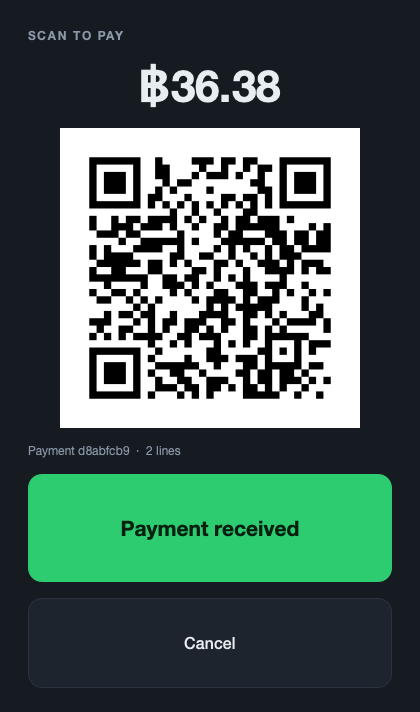
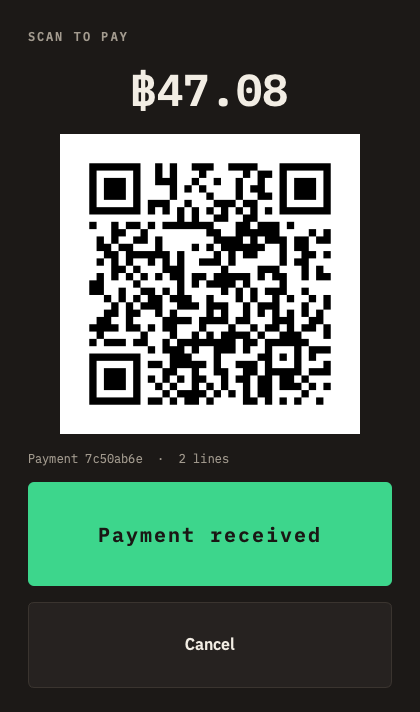
site + docs: local Plex, shared tokens, fresh screenshots of till, receipt, phone and dashboard
- site/public: fonts served locally (no Google Fonts), DESIGN.md tokens, the
  receipt stays paper in the dark theme, iPhone and dashboard figures added;
  no horizontal overflow at 390/768/1280 in either theme; deployed
- ios/README.md: --demo-seed, --demo-scan, --tab; the abbreviated PostScript
  names and FontsTests
- README layout: assets/fonts, docs/DESIGN.md, 175 tests; action item 34

diff --git a/site/public/style.css b/site/public/style.css
@@ -1,35 +1,47 @@
-/* AI Cashier landing page.
-   Direction: receipt paper and the till's own orange. Light is warm paper;
-   dark is the till screen's palette (scanner/ui/theme.py). */
+/* AI Cashier landing page: the paper half of docs/DESIGN.md.
+   Fonts are served from this folder (IBM Plex Sans Thai + Plex Mono, OFL). */
+
+@font-face { font-family: "IBM Plex Sans Thai"; font-weight: 400; font-style: normal; font-display: swap; src: url(/fonts/IBMPlexSansThai-Regular.woff2) format("woff2"); }
+@font-face { font-family: "IBM Plex Sans Thai"; font-weight: 500; font-style: normal; font-display: swap; src: url(/fonts/IBMPlexSansThai-Medium.woff2) format("woff2"); }
+@font-face { font-family: "IBM Plex Sans Thai"; font-weight: 600; font-style: normal; font-display: swap; src: url(/fonts/IBMPlexSansThai-SemiBold.woff2) format("woff2"); }
+@font-face { font-family: "IBM Plex Sans Thai"; font-weight: 700; font-style: normal; font-display: swap; src: url(/fonts/IBMPlexSansThai-Bold.woff2) format("woff2"); }
+@font-face { font-family: "IBM Plex Mono"; font-weight: 400; font-style: normal; font-display: swap; src: url(/fonts/IBMPlexMono-Regular.woff2) format("woff2"); }
+@font-face { font-family: "IBM Plex Mono"; font-weight: 500; font-style: normal; font-display: swap; src: url(/fonts/IBMPlexMono-Medium.woff2) format("woff2"); }
+@font-face { font-family: "IBM Plex Mono"; font-weight: 600; font-style: normal; font-display: swap; src: url(/fonts/IBMPlexMono-SemiBold.woff2) format("woff2"); }
 
 :root {
-  --paper: #F7F4EE;
-  --paper-2: #FFFFFF;
-  --ink: #14171C;
-  --muted: #5E6672;
-  --rule: #DAD5CB;
+  color-scheme: light;
+  --paper: #F3F1EC;
+  --paper-2: #FBFAF7;
+  --ink: #1A1714;
+  --muted: #6B655C;
+  --rule: #D6D2C9;
   --accent: #FF7A18;
   --accent-ink: #B4500A;
   --ok: #1E8E4E;
-  --receipt: #FFFDF8;
-  --shadow: 0 18px 40px -24px rgba(20, 23, 28, .35);
+  /* the receipt is paper in either theme */
+  --receipt: #FBFAF7;
+  --receipt-ink: #1A1714;
+  --shadow: 0 18px 40px -24px rgba(26, 23, 20, .4);
 
-  --sans: "IBM Plex Sans", system-ui, -apple-system, "Segoe UI", sans-serif;
-  --mono: "IBM Plex Mono", ui-monospace, SFMono-Regular, Menlo, monospace;
+  --sans: "IBM Plex Sans Thai", "Noto Sans Thai", system-ui, -apple-system, "Segoe UI", sans-serif;
+  --mono: "IBM Plex Mono", "IBM Plex Sans Thai", ui-monospace, SFMono-Regular, Menlo, monospace;
   --measure: 62ch;
   --w: 1120px;
   --s-1: .5rem; --s-2: 1rem; --s-3: 1.5rem; --s-4: 2.5rem; --s-5: 4rem; --s-6: clamp(4rem, 3rem + 5vw, 7rem);
 }
 @media (prefers-color-scheme: dark) {
   :root:not([data-theme="light"]) {
-    --paper: #0E1116; --paper-2: #161B22; --ink: #E8EDF2; --muted: #8A98A8; --rule: #2A333F;
-    --accent: #FF7A18; --accent-ink: #FFA45C; --ok: #2ECC71; --receipt: #1D242D;
+    color-scheme: dark;
+    --paper: #131110; --paper-2: #1C1917; --ink: #F2EDE4; --muted: #A39B8F; --rule: #3A342F;
+    --accent-ink: #FFA45C; --ok: #3DD68C;
     --shadow: 0 18px 40px -24px rgba(0, 0, 0, .8);
   }
 }
 :root[data-theme="dark"] {
-  --paper: #0E1116; --paper-2: #161B22; --ink: #E8EDF2; --muted: #8A98A8; --rule: #2A333F;
-  --accent: #FF7A18; --accent-ink: #FFA45C; --ok: #2ECC71; --receipt: #1D242D;
+  color-scheme: dark;
+  --paper: #131110; --paper-2: #1C1917; --ink: #F2EDE4; --muted: #A39B8F; --rule: #3A342F;
+  --accent-ink: #FFA45C; --ok: #3DD68C;
   --shadow: 0 18px 40px -24px rgba(0, 0, 0, .8);
 }
 
@@ -44,7 +56,7 @@ body {
 a { color: var(--accent-ink); text-underline-offset: 3px; }
 a:focus-visible, button:focus-visible, summary:focus-visible { outline: 3px solid var(--accent); outline-offset: 3px; }
 img { max-width: 100%; height: auto; display: block; }
-h1, h2, h3 { font-weight: 700; letter-spacing: -.015em; line-height: 1.1; text-wrap: balance; margin: 0; }
+h1, h2, h3 { font-weight: 600; letter-spacing: -.02em; line-height: 1.1; text-wrap: balance; margin: 0; }
 h1 { font-size: clamp(2.4rem, 1.4rem + 4vw, 4.4rem); }
 h2 { font-size: clamp(1.7rem, 1.2rem + 1.6vw, 2.4rem); margin-bottom: var(--s-3); }
 h3 { font-size: 1.25rem; margin-bottom: var(--s-1); }
@@ -55,6 +67,7 @@ code { font-family: var(--mono); font-size: .92em; background: color-mix(in srgb
 .skip:focus { left: 8px; }
 
 .eyebrow { font-family: var(--mono); font-size: .78rem; letter-spacing: .12em; text-transform: uppercase; color: var(--muted); margin-bottom: var(--s-2); }
+.eyebrow--accent { color: var(--accent-ink); }
 .lede { font-size: 1.2rem; color: var(--ink); }
 .lede--tight { margin-bottom: var(--s-3); }
 .fine { font-size: .9rem; color: var(--muted); }
@@ -79,13 +92,13 @@ section { padding-top: var(--s-6); }
 
 .btn {
   display: inline-flex; flex-direction: column; justify-content: center; gap: 2px;
-  min-height: 64px; padding: 12px 22px; border-radius: 10px; text-decoration: none;
+  min-height: 64px; padding: 12px 22px; border-radius: 6px; text-decoration: none;
   font-weight: 600; line-height: 1.2; border: 2px solid transparent;
   transition: transform .12s ease, box-shadow .12s ease;
 }
 .btn:hover { transform: translateY(-1px); }
 .btn:active { transform: translateY(0); }
-.btn--primary { background: var(--accent); color: #14171C; box-shadow: 0 10px 24px -14px rgba(255, 122, 24, .9); }
+.btn--primary { background: var(--accent); color: #1A1714; box-shadow: 0 10px 24px -14px rgba(255, 122, 24, .9); }
 .btn--primary:hover { box-shadow: 0 14px 30px -14px rgba(255, 122, 24, 1); }
 .btn--ghost { border-color: var(--rule); color: var(--ink); background: transparent; }
 .btn--ghost:hover { border-color: var(--ink); }
@@ -94,7 +107,7 @@ section { padding-top: var(--s-6); }
 
 .receipt {
   margin: 0; justify-self: center; width: min(100%, 360px);
-  background: var(--receipt); color: var(--ink);
+  background: var(--receipt); color: var(--receipt-ink);
   padding: 22px 0 18px; box-shadow: var(--shadow);
   transform: rotate(-1.2deg);
   /* the torn bottom edge */
@@ -104,9 +117,10 @@ section { padding-top: var(--s-6); }
 @media (prefers-reduced-motion: no-preference) { .receipt { transition: transform .3s ease; } .receipt:hover { transform: rotate(0deg); } }
 
 /* screenshots */
-.shot img { border-radius: 12px; border: 1px solid var(--rule); box-shadow: var(--shadow); }
+.shot img { border-radius: 6px; border: 1px solid var(--rule); box-shadow: var(--shadow); }
 .shot figcaption { font-size: .92rem; color: var(--muted); margin-top: var(--s-2); }
-.shot--pair { display: grid; grid-template-columns: minmax(0, 1.6fr) minmax(0, 1fr); gap: var(--s-4); align-items: start; }
+.shot--pair { display: grid; grid-template-columns: minmax(0, 1.6fr) minmax(0, .9fr) minmax(0, .7fr); gap: var(--s-4); align-items: start; }
+.shot--pair .phone img { border-radius: 24px; }
 .shot--pair figure { margin: 0; }
 
 /* steps: a numbered sequence, because a sale is one */
@@ -117,12 +131,12 @@ section { padding-top: var(--s-6); }
 
 /* refusals */
 .refuses ul { list-style: none; padding: 0; margin: 0; display: grid; gap: var(--s-2); max-width: 72ch; }
-.refuses li { padding: var(--s-2) var(--s-3); background: var(--paper-2); border: 1px solid var(--rule); border-left: 4px solid var(--accent); border-radius: 0 10px 10px 0; }
+.refuses li { padding: var(--s-2) var(--s-3); background: var(--paper-2); border: 1px solid var(--rule); border-left: 4px solid var(--accent); border-radius: 0 6px 6px 0; }
 .refuses li b { display: block; margin-bottom: 2px; }
 
 /* download cards */
 .dl__grid { display: grid; grid-template-columns: minmax(0, 1.4fr) minmax(0, 1fr) minmax(0, 1fr); gap: var(--s-3); }
-.card { background: var(--paper-2); border: 1px solid var(--rule); border-radius: 14px; padding: var(--s-3); display: flex; flex-direction: column; gap: var(--s-1); }
+.card { background: var(--paper-2); border: 1px solid var(--rule); border-radius: 6px; padding: var(--s-3); display: flex; flex-direction: column; gap: var(--s-1); }
 .card p { max-width: none; }
 .card--win { border-color: var(--accent); box-shadow: var(--shadow); }
 .card .btn { margin: var(--s-2) 0; align-self: flex-start; max-width: 100%; }

diff --git a/site/public/index.html b/site/public/index.html
@@ -6,9 +6,7 @@
 <title>AI Cashier</title>
 <meta name="description" content="A self-checkout till that recognises products with a camera and can be taught a new product in about thirty seconds. Windows installer, Raspberry Pi rig, and an iPhone build.">
 <link rel="icon" href="/img/icon.png">
-<link rel="preconnect" href="https://fonts.googleapis.com">
-<link rel="preconnect" href="https://fonts.gstatic.com" crossorigin>
-<link rel="stylesheet" href="https://fonts.googleapis.com/css2?family=IBM+Plex+Mono:wght@400;500;600&family=IBM+Plex+Sans:wght@400;500;600;700&display=swap">
+<link rel="preload" href="/fonts/IBMPlexSansThai-SemiBold.woff2" as="font" type="font/woff2" crossorigin>
 <link rel="stylesheet" href="/style.css">
 </head>
 <body>
@@ -70,8 +68,8 @@
 </section>
 
 <section class="shot" aria-label="The till">
-  <img src="/img/till.png" alt="The till screen: camera view on the left with two products found and priced, the cart with VAT and total on the right, a large PAY button." width="1440" height="900" loading="eager" fetchpriority="high">
-  <figcaption>The till. Two products recognised on the mat, priced, one tap from the cart.</figcaption>
+  <img src="/img/till.png" alt="The till screen: the camera frame with two products boxed and labelled with their names and prices, a paper receipt strip on the right with both lines and the total, and a green PAY button." width="1440" height="900" loading="eager" fetchpriority="high">
+  <figcaption>The till. Two products found on the mat, each labelled on the frame with its price; the cart is the receipt the customer will hold.</figcaption>
 </section>
 
 <section id="how" class="steps" aria-labelledby="how-h">
@@ -95,15 +93,24 @@
   </ol>
 </section>
 
-<section class="shot shot--pair" aria-label="Teaching and paying">
+<section class="shot shot--pair" aria-label="Teaching, paying, and the phone">
   <figure>
-    <img src="/img/enrol.png" alt="The Add a product dialog: camera preview with the product outlined, name, price, category, stock, a restricted-sale picker, and the scale reading 75 g." width="880" height="611" loading="lazy">
+    <img src="/img/enrol.png" alt="The Add a product dialog: camera preview with the product outlined, name, price, category, stock, a restricted-sale picker, and the scale reading 75 g." width="880" height="623" loading="lazy">
     <figcaption>Teaching a product: five views, a name, a price. The scale records its weight.</figcaption>
   </figure>
   <figure>
-    <img src="/img/payment.png" alt="The Scan to pay dialog with the total and a PromptPay QR code." width="420" height="500" loading="lazy">
-    <figcaption>Paying: a PromptPay QR any Thai banking app opens with the amount filled in.</figcaption>
+    <img src="/img/paid.png" alt="The printed receipt after payment: store name, two lines, the total, a torn bottom edge." width="420" height="503" loading="lazy">
+    <figcaption>Paid: the receipt as the printer prints it, thirty-two columns, VAT lines only for a VAT-registered shop.</figcaption>
   </figure>
+  <figure class="phone">
+    <img src="/img/iphone.png" alt="The iPhone app: the same camera frame with both products labelled, the detected list with prices, and the receipt strip." width="603" height="1311" loading="lazy">
+    <figcaption>The whole till on an iPhone, with the phone's camera.</figcaption>
+  </figure>
+</section>
+
+<section class="shot" aria-label="The dashboard">
+  <img src="/img/dashboard.png" alt="The owner's dashboard: total takings, sales today and average basket set like receipt totals, takings by day and sales by hour as bar charts, best sellers, recent sales." width="1440" height="1307" loading="lazy">
+  <figcaption>The shopkeeper's ledger, in the browser on the same machine or over the shop's Wi-Fi: takings by day and hour, what sells, what is running low.</figcaption>
 </section>
 
 <section id="refuses" class="refuses" aria-labelledby="ref-h">

diff --git a/docs/research/08-action-items.md b/docs/research/08-action-items.md
@@ -46,6 +46,7 @@ Each item names the file, the change, the effort, and the dossier section it com
 | 30 | Measured threshold written where the till reads it, with the iPhone line printed | `tools/set_threshold.py` | 09 F5, fusion.py | done |
 | 31 | Capture session on a laptop or iPhone camera: `capture.py --list`, PROTOCOL 2b | `research/capture.py`, `research/PROTOCOL.md` | 07 T1 | done; camera permission is a per-terminal macOS grant |
 | 32 | The paper compiles (tectonic) | `paper/Makefile` | — | done |
+| 34 | One visual identity ("receipt & instrument") across the till, the dashboard, the iPhone app and the site: boxes and prices drawn on the camera frame, the cart as the printed receipt, Plex Sans Thai + Plex Mono bundled, inline-SVG / Swift Charts | `docs/DESIGN.md`, `scanner/ui/theme.py`, `server/static/css/style.css`, `ios/AICashier/Sources/Theme.swift`, `site/public/style.css` | user request, 4 Sep 2026 | done: `docs/shots/v4d/`, `docs/shots/ios/03-06` |
 | 33 | E9 with the other encoders (MobileCLIP-B, DINOv2) — the public rows say the ImageNet trunk is the lever, not more views | `run.py --source folder --backbone …` | 05 P27, X15 | open: needs the weights downloaded |
 
 Items 1–3 change what the project may legally claim. Items 4–7 turn a demo till into something a Thai shop could switch on. Items 8–11 are what a reviewer will ask for. Items 13–16 protect the master's/PhD path.

diff --git a/ios/README.md b/ios/README.md
@@ -35,6 +35,23 @@ The Simulator has no camera; the app uses the bundled demo image instead
 (Shop tab → *Use the demo image*). Calibrate on it once, then SCAN finds the two
 demo packets as *unknown*, and *Teach* enrols them.
 
+Two launch arguments make a fresh Simulator show the whole thing at once
+(Xcode: scheme → Run → Arguments, or `xcrun simctl launch booted com.group3.aicashier --demo-seed`):
+
+- `--demo-seed` teaches the two demo packets from bundled views, books two
+  sales through the normal checkout path, then scans - the till then recognises
+  and prices both, and the Takings tab has data. Idempotent.
+- `--demo-scan` only calibrates on the bundled mat and scans.
+- `--tab takings` (or `inventory`, `shop`) opens that tab on launch.
+
+## Look and type
+
+The screens follow `docs/DESIGN.md` - the same tokens as the till and the
+dashboard - in `Sources/Theme.swift`. IBM Plex Sans Thai and Plex Mono ship in
+`Resources/Fonts` (SIL OFL); the PostScript names Apple registers are
+abbreviated (`IBMPlexSansThai-SmBld`, not `-SemiBold`), and `FontsTests`
+fails if any of the seven stops resolving.
+
 ## What the tests prove
 
 `Tests/Fixtures` is written by `tools/export_fixtures.py` from the Python

diff --git a/README.md b/README.md
@@ -95,10 +95,12 @@ research/            experiments, capture protocol, benchmark
 paper/               LaTeX draft; tables and figures are generated, never typed
 tools/               export the backbone, calibrate the scale, print the markers
 deploy/              systemd unit for the Pi
-tests/               167 tests
+tests/               175 tests
 ios/                 the Swift till (SwiftUI, Core ML, GRDB) and its fixture-checked tests
 site/                the landing page
 build/windows/       PyInstaller spec, Inno Setup script, CI smoke test
+assets/fonts/        IBM Plex Sans Thai + Plex Mono (OFL), bundled by every surface
+docs/DESIGN.md       the one token table and type scale the till, dashboard, phone and site share
 docs/HARDWARE.md     what to buy, how to wire it, how to calibrate it, Pi OS setup
 docs/research/       the dossier: law, market, literature, venues, architecture review
 ```
